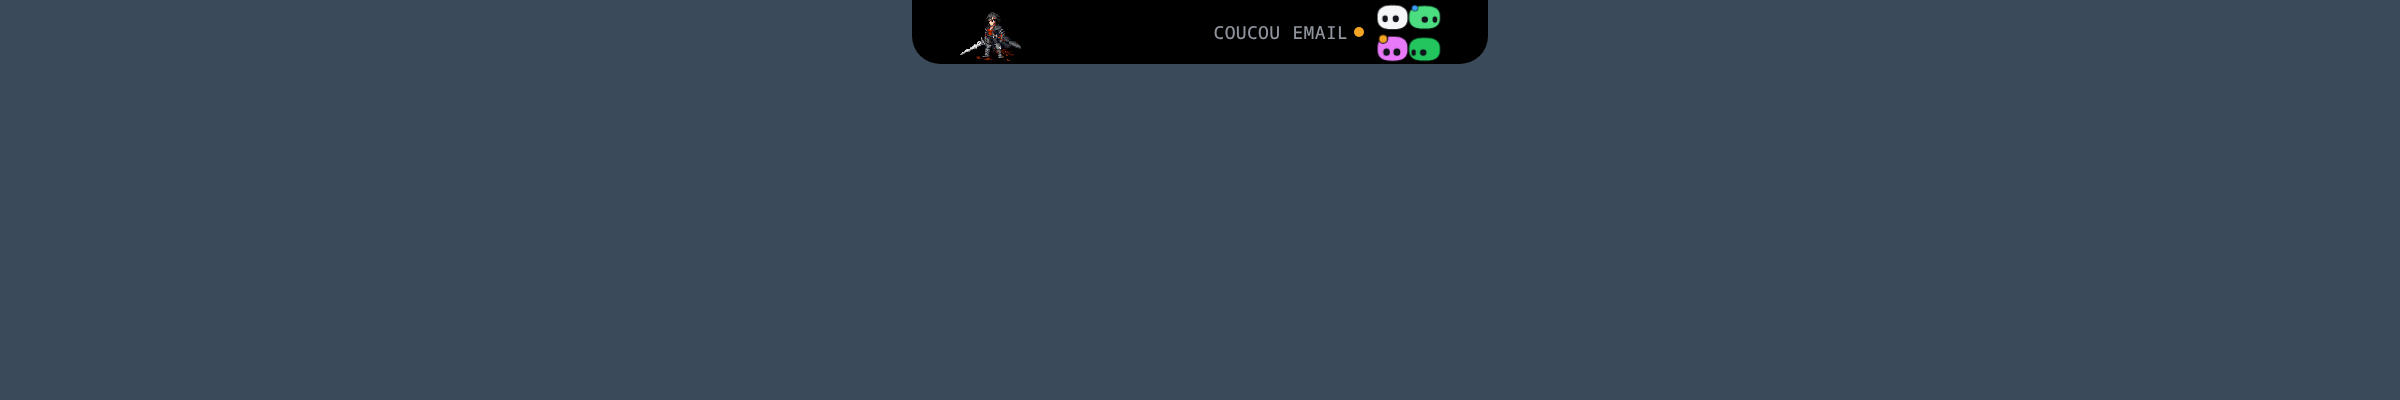
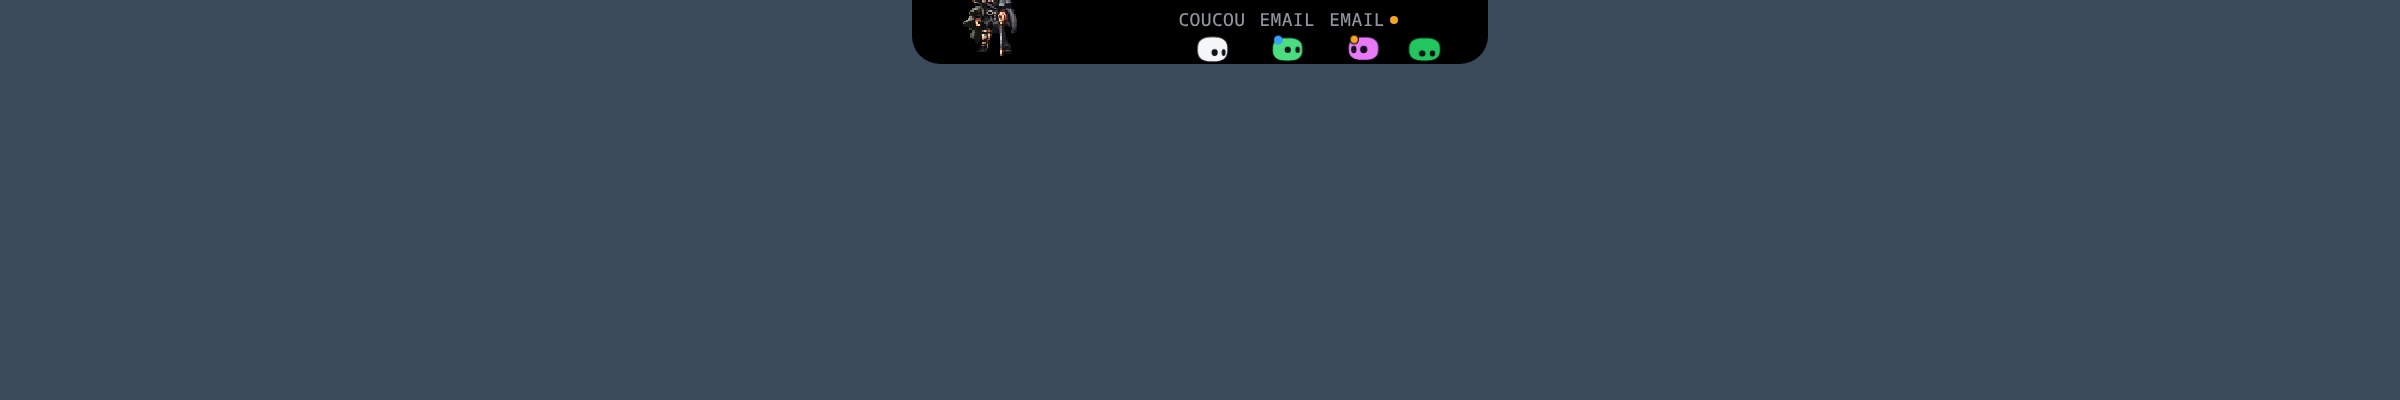
P5a: the workspace tag rides on each pill, and Coucou follows the active unit
Two changes, both visible in docs/island-p5a-fixed.png.

- The workspace label is no longer a separate element standing in the strip. Each
  herdr pill carries its own small mono tag (COUCOU, EMAIL, EMAIL with the blocked
  dot on the blocked one); service pills stay untagged, and ordering still keeps
  one workspace's pills together. The tag is positioned above its pill so the
  association is by position, and it does not enlarge the pill's hit area.
- The character is the member Mission Control marks `active`, not `party[0]`.
  Those differ: the live party is [clive, …] with `active: regis`, so Coucou was
  drawing Clive while the dashboard's Camp showed Regis. The user asked for the
  leader unit, and `active` is what they see there. party[0] remains the fallback
  when no active member is valid.

Tests updated to the new contract rather than weakened: one asserted "leader
changes follow party order, not `active`" — the opposite of what was asked — and
is now "without an active member, party[0] leads", plus a test that the active
member wins over party order.

Verified: tsc clean, 628/628 tests, cargo build ok, and the rendered strip shows
the per-pill tags over the mini bots with no ancestor below opacity 0.99.

Changed region(s): [[0.4688, 0.0, 0.625, 0.15], [0.4062, 0.0, 0.4375, 0.15]]

diff --git a/windows/src/island/island.ts b/windows/src/island/island.ts
@@ -22,7 +22,7 @@ import { createMiniBot, pruneMiniBots, syncMiniBotStates, tickMiniBots } from ".
 import { SeasonCache, parseOutfit } from "../mochi/wardrobe";
 import { characterSetting, loadSprites } from "../mochi/sprite";
 import { herdrWorkspaceList } from "./herdr-sync";
-import { groupByWorkspace, stripTasks, workspaceTags } from "./workspace-groups";
+import { groupByWorkspace, pillTag, stripTasks } from "./workspace-groups";
 import { UploadCanvas } from "../upload/canvas";
 import { USC, UploadSeq, uploadProgressCurve } from "../upload/sequence";
 import { dominantPct, planColor } from "../core/plan";
@@ -74,8 +74,6 @@ export class Island {
   private botGlow!: HTMLElement;
   private greetingCanvas!: HTMLCanvasElement;
   private miniGrid!: HTMLElement;
-  /** Compact strip: the herdr workspaces beside the mini-bots (island/workspace-groups.ts). */
-  private wsTag!: HTMLElement;
   private clockEl!: HTMLElement;
   private clockTimer?: number;
   /** The closed island's one line (core/closed.ts), and what it last showed. */
@@ -339,7 +337,6 @@ export class Island {
     this.botCanvas = h("canvas", { id: "bot-canvas" });
     this.greetingCanvas = h("canvas", { id: "greeting-canvas" });
     this.miniGrid = h("div", { id: "mini-grid" });
-    this.wsTag = h("div", { id: "ws-tag" });
     this.clockEl = h("div", { id: "island-clock" });
     this.countdown = h("div", { id: "countdown" });
     this.compactPlanDot = h("i", { class: "compact-plan-dot" });
@@ -396,7 +393,6 @@ export class Island {
       this.botGlow,
       this.botCanvas,
       this.miniGrid,
-      this.wsTag,
       this.compactPlan,
       this.clockEl,
       this.closedEl,
@@ -899,7 +895,8 @@ export class Island {
     this.islandEl.style.transform = `translateX(-50%)`;
     // These follow the island as it resizes, so they belong here rather than in
     // the state-driven DOM sync.
-    this.miniGrid.style.left = `${w - 40 - 14.5}px`;
+    // Tagged, the minis are one row that grows to the left from the grid's right edge.
+    this.miniGrid.style.left = this.miniGrid.classList.contains("tagged") ? "auto" : `${w - 40 - 14.5}px`;
     this.miniGrid.style.top = `${hh / 2 - 14.5}px`;
     this.clockEl.style.height = `${hh}px`;
     this.greetingCanvas.style.left = `${(w - EXPANDED_W) / 2}px`;
@@ -1518,30 +1515,33 @@ export class Island {
     }
 
     // Compact mini grid. With herdr workspaces the minis follow the pill row's
-    // groups, and a tag beside them names the workspaces (no room for headers).
+    // groups, each herdr mini with its workspace tag above it (one row then);
+    // the clock and the plan gauge need that stretch of the strip, so with
+    // either on the minis stay the usual 2×2 grid, untagged.
     const showGrid = State.mode === "compact";
     this.miniGrid.style.opacity = showGrid ? "1" : "0";
-    const grouping = groupByWorkspace(State.tasks, herdrWorkspaceList(), State.focusTask?.id ?? null);
-    const tags = workspaceTags(grouping);
-    // The clock and the plan gauge use the same stretch of the strip: they win.
-    const showTag = showGrid && tags.length > 0 && !State.settings.showClock && !claudeCompactPillVisible();
-    this.wsTag.style.opacity = showTag ? "1" : "0";
-    const tagKey = tags.map((t) => `${t.label}:${t.blocked}`).join("|");
-    if (this.wsTag.dataset.key !== tagKey) {
-      this.wsTag.dataset.key = tagKey;
-      this.wsTag.replaceChildren(...tags.map((t) => h("span", { class: "ws" },
-        t.label, t.blocked ? h("i", { class: "blocked" }) : null)));
-    }
     if (showGrid) {
+      const grouping = groupByWorkspace(State.tasks, herdrWorkspaceList(), State.focusTask?.id ?? null);
       const others = stripTasks(grouping, State.otherTasks);
-      const key = others.map((t) => t.id).join("|");
+      const tagged = grouping.headers && !State.settings.showClock && !claudeCompactPillVisible();
+      const tags = others.map((t) => (tagged ? pillTag(t) : null));
+      const key = others.map((t, i) => `${t.id}:${tags[i]?.label ?? ""}:${tags[i]?.blocked ?? ""}`).join("|") + `|${tagged}`;
       if (this.miniGrid.dataset.key !== key) {
         this.miniGrid.dataset.key = key;
+        this.miniGrid.classList.toggle("tagged", tagged);
         this.miniGrid.replaceChildren();
-        for (const t of others) {
-          this.miniGrid.append(createMiniBot(t, 13));
-        }
+        others.forEach((t, i) => {
+          const mini = createMiniBot(t, 13);
+          if (!tagged) return void this.miniGrid.append(mini);
+          const tag = tags[i];
+          // A service keeps an empty tag line, so every mini sits on one baseline.
+          const label = h("span", { class: "mini-tag" },
+            tag ? h("span", { class: "t", text: tag.label }) : null,
+            tag?.blocked ? h("i", { class: "blocked" }) : null);
+          this.miniGrid.append(h("span", { class: "mini-item" }, label, mini));
+        });
         pruneMiniBots();
+        this.applyGeometry();
       }
     }
 

diff --git a/windows/src/island/workspace-groups.ts b/windows/src/island/workspace-groups.ts
@@ -90,9 +90,8 @@ export function groupByWorkspace(
 }
 
 // ── The compact strip ─────────────────────────────────────────────────────────
-// 288 × 32 px, with four 13 px mini-bots: no room for headers or pill labels.
-// The minis follow the groups' order instead, and a small tag beside them
-// names the workspaces in that order, a blocked one marked.
+// 288 × 32 px, with 13 px mini-bots: no room for headers. The minis follow the
+// groups' order, and each herdr mini carries its own workspace tag.
 
 export const STRIP_MINIS = 4;
 
@@ -102,16 +101,16 @@ export function stripTasks(grouping: PillGrouping, others: readonly AgentTask[])
   return grouping.groups.flatMap((g) => g.tasks).slice(0, STRIP_MINIS);
 }
 
-export interface WorkspaceTag {
-  key: string;
+export interface PillTag {
+  /** The workspace label ("EMAIL"), else its id. */
   label: string;
+  /** This pill's own session is blocked (not merely its workspace). */
   blocked: boolean;
 }
 
-/** The strip's workspace tag, in group order; empty when the row has no headers. */
-export function workspaceTags(grouping: PillGrouping): WorkspaceTag[] {
-  if (!grouping.headers) return [];
-  return grouping.groups
-    .filter((g) => g.kind === "workspace")
-    .map((g) => ({ key: g.key, label: g.label, blocked: g.blocked }));
+/** The workspace tag a pill wears: herdr pills only, services get none. */
+export function pillTag(task: AgentTask): PillTag | null {
+  const ws = taskWorkspace(task);
+  if (ws == null) return null;
+  return { label: task.workspaceLabel || ws, blocked: task.state === "approval" };
 }

diff --git a/windows/src/mochi/sprite.ts b/windows/src/mochi/sprite.ts
@@ -78,16 +78,20 @@ function parseAnim(raw: unknown, base: string, dir: string): SpriteAnim | null {
 
 /**
  * The leader's sprite set from `/api/party` and `party.json`, without images.
- * The leader is `party[0]`; its member's `character` names the entry in
+ * The leader is the member Mission Control marks `active` — the one its Camp
+ * shows — falling back to `party[0]`. Its `character` names the entry in
  * party.json (the member id when it has none). Null when anything is missing,
  * including an idle animation.
  */
 export function parseSpriteSet(partyApi: unknown, partyJson: unknown, baseUrl = DEFAULT_BASE_URL): SpriteSet | null {
   if (!isObj(partyApi) || !Array.isArray(partyApi.party)) return null;
-  const leader = partyApi.party[0];
-  if (typeof leader !== "string" || !leader) return null;
   const members = Array.isArray(partyApi.members) ? partyApi.members : [];
-  const member = members.find((m): m is Record<string, unknown> => isObj(m) && m.id === leader);
+  const findMember = (id: unknown) =>
+    members.find((m): m is Record<string, unknown> => isObj(m) && m.id === id);
+  const activeId = typeof partyApi.active === "string" && partyApi.active ? partyApi.active : null;
+  const leader = findMember(activeId) ? activeId : partyApi.party[0];
+  if (typeof leader !== "string" || !leader) return null;
+  const member = findMember(leader);
   const charId = typeof member?.character === "string" && member.character ? member.character : leader;
 
   if (!isObj(partyJson) || !Array.isArray(partyJson.characters)) return null;

diff --git a/windows/src/style.css b/windows/src/style.css
@@ -176,36 +176,46 @@ body {
   transition: opacity 0.25s ease-in-out;
 }
 
-/* Compact strip: herdr workspace names beside the agent dots, in their order;
-   an amber dot marks a workspace with a blocked session (island/workspace-groups.ts). */
-#ws-tag {
-  position: absolute;
-  top: 50%;
-  right: 62px;
-  transform: translateY(-50%);
-  max-width: 120px;
+/* Compact strip, herdr workspaces: the minis in one row, each herdr mini with
+   its workspace tag above it, an amber dot on the blocked one's tag
+   (island/workspace-groups.ts). Non-interactive, like the grid. */
+#mini-grid.tagged {
+  right: 25.5px;
+  width: auto;
   display: flex;
-  align-items: center;
-  gap: 6px;
-  overflow: hidden;
-  white-space: nowrap;
-  font: 500 9px var(--mono);
-  letter-spacing: 0.02em;
-  color: var(--dim-2);
-  pointer-events: none;
-  opacity: 0;
-  transition: opacity 0.25s ease-in-out;
+  align-items: flex-end;
+  gap: 7px;
 }
 
-#ws-tag .ws {
-  display: inline-flex;
+.mini-item {
+  display: flex;
+  flex-direction: column;
   align-items: center;
   gap: 3px;
 }
 
-#ws-tag .blocked {
-  width: 5px;
-  height: 5px;
+.mini-tag {
+  display: flex;
+  align-items: center;
+  gap: 2px;
+  height: 10px;
+  max-width: 44px;
+  font: 500 9px/10px var(--mono);
+  letter-spacing: 0.02em;
+  color: var(--dim-2);
+  white-space: nowrap;
+}
+
+.mini-tag .t {
+  overflow: hidden;
+  text-overflow: ellipsis;
+  min-width: 0;
+}
+
+.mini-tag .blocked {
+  flex: 0 0 auto;
+  width: 4px;
+  height: 4px;
   border-radius: 50%;
   background: #f5a524;
 }
